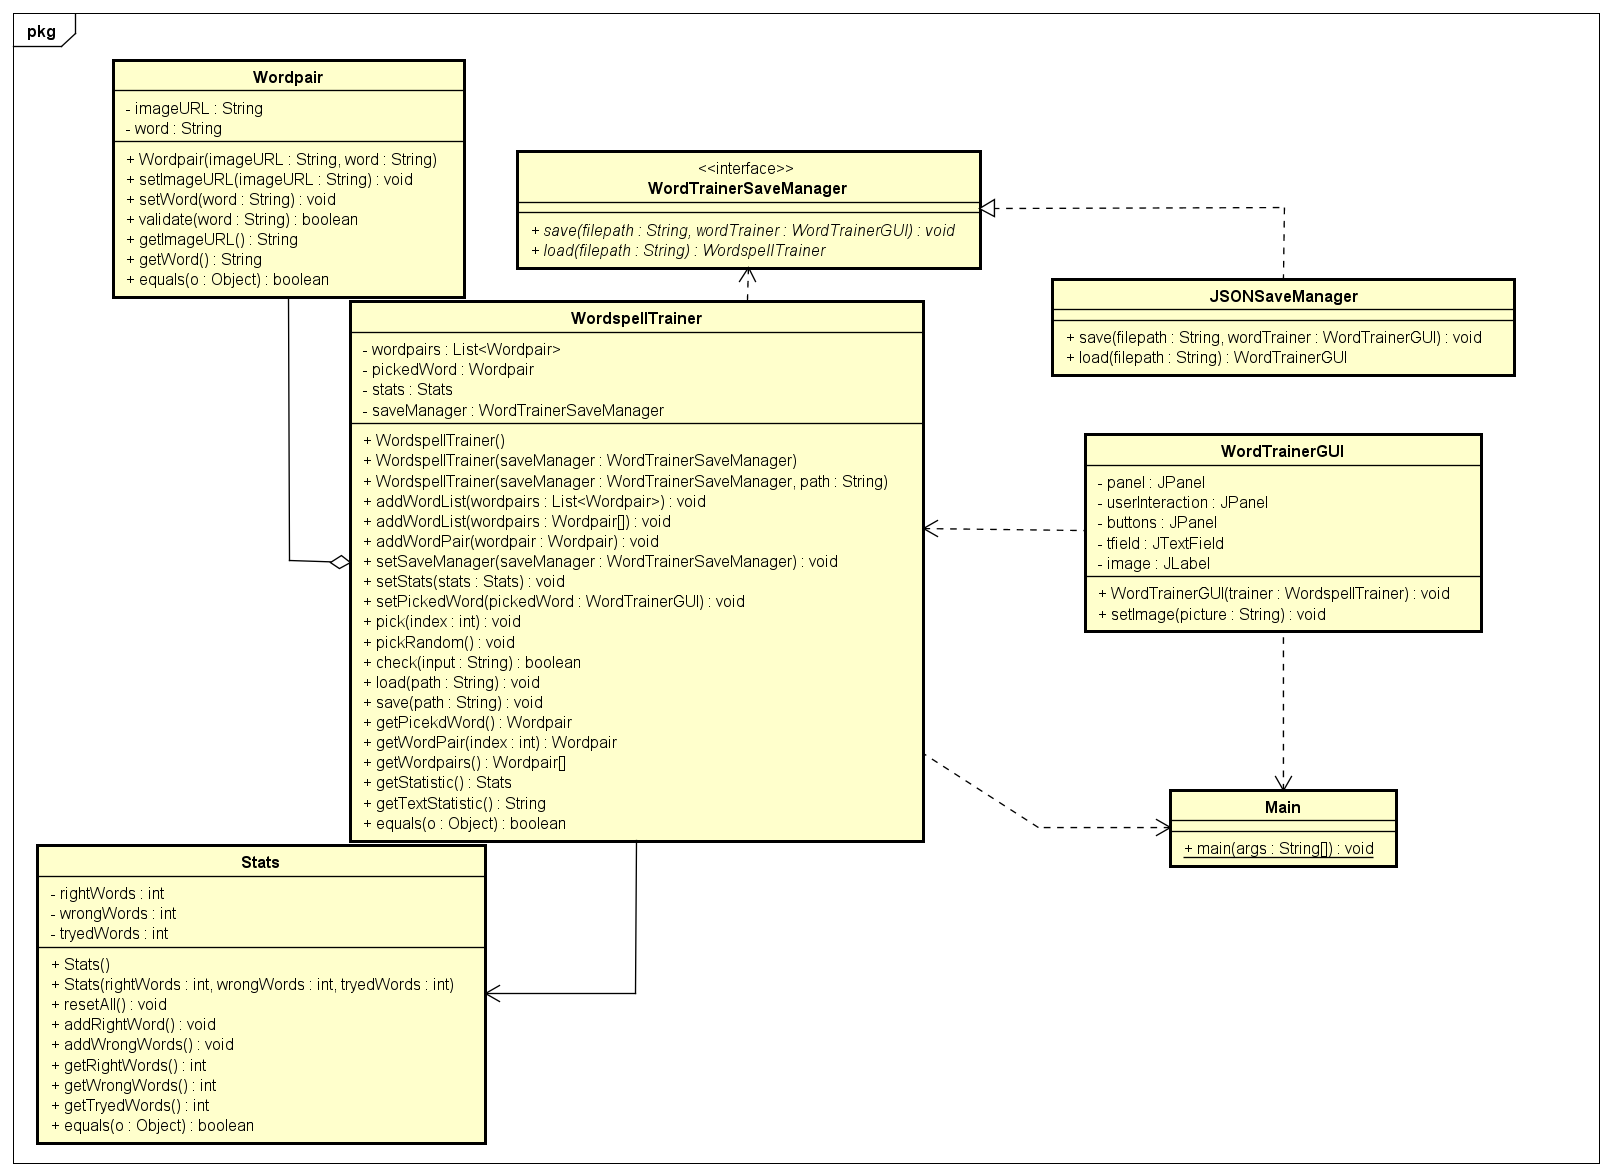
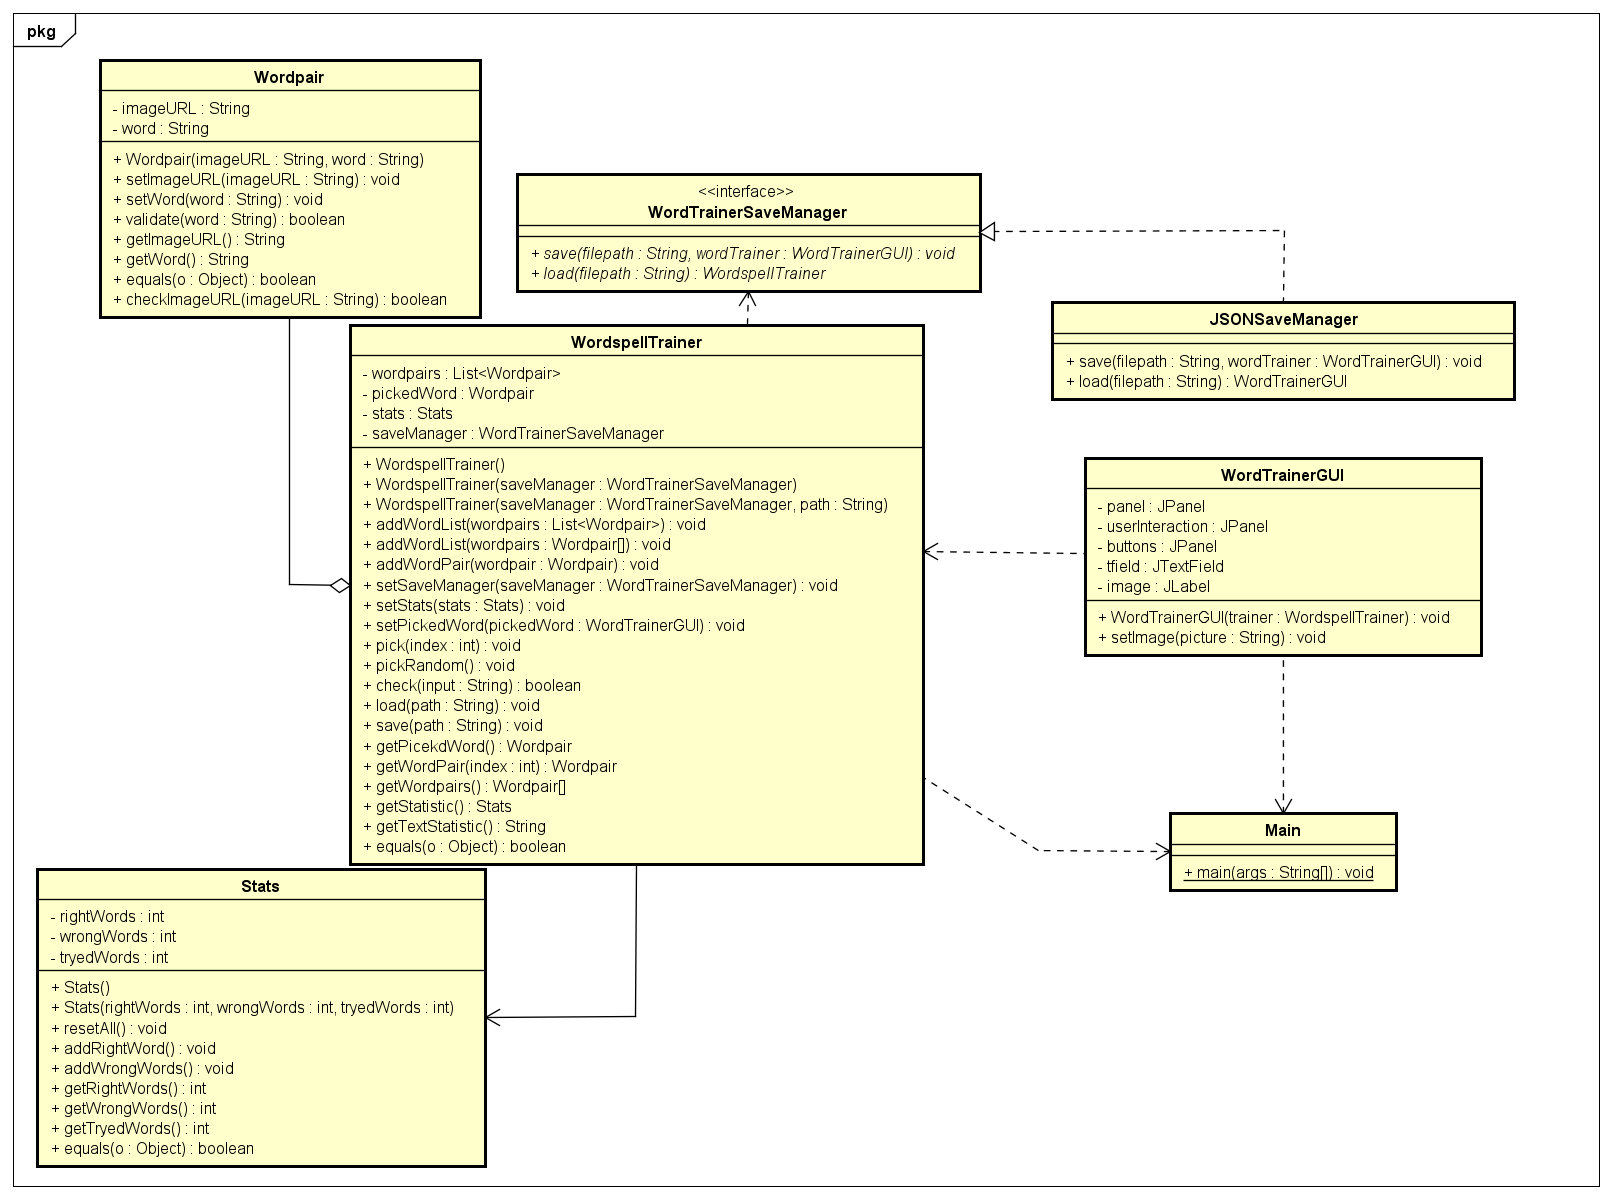
Issue von Flo implementiert und auf EKV erweitert

diff --git a/src/main/java/tgm/ac/at/parnold/WordPair.java b/src/main/java/tgm/ac/at/parnold/WordPair.java
@@ -1,5 +1,7 @@
 package tgm.ac.at.parnold;
 
+import javax.swing.*;
+import java.awt.*;
 import java.net.MalformedURLException;
 import java.net.URL;
 
@@ -14,7 +16,7 @@ public class WordPair {
     private String word;
 
     /**
-     * Mit dem Konsturkor kann ein neues Wortpaar erstellt werden
+     * Mit dem Konstruktor kann ein neues Wortpaar erstellt werden
      * @param imageURL hier wird die URL eines Bildes übergeben
      * @param word hier wird zur URL das passende Wort eingegeben
      */
@@ -25,15 +27,31 @@ public class WordPair {
 
     /**
      * Hier kann man die ImageURL setzen und diese wird auf eine echte URL geprüft
-     * @param imageURL hier wird die URL eines Biles übergeben
+     * @param imageURL hier wird die URL eines files übergeben
      */
     public void setImageURL(String imageURL) {
         try {
-            URL test = new URL(imageURL);
+            new URL(imageURL);
         } catch (MalformedURLException e) {
             throw new IllegalArgumentException("This is not a correct URL!");
         }
+        if (!checkImageURL(imageURL)) throw new IllegalArgumentException("This is not a image URL!");
         this.imageURL = imageURL;
+    }
+
+    public boolean checkImageURL(String imageURL) {
+        try{
+            ImageIcon imageIcon = new ImageIcon(new URL(imageURL));
+            while(imageIcon.getImageLoadStatus()==MediaTracker.LOADING){
+                Thread.sleep(500);
+            }
+            if(!(imageIcon.getImageLoadStatus()==MediaTracker.ABORTED || imageIcon.getImageLoadStatus()==MediaTracker.ERRORED)) return true;
+        } catch (MalformedURLException e){
+            throw new RuntimeException(e);
+        } catch (InterruptedException e) {
+            throw new RuntimeException(e);
+        }
+        return false;
     }
 
     /**
@@ -41,7 +59,7 @@ public class WordPair {
      * @param word hier wird das passende Wort übergeben
      */
     public void setWord(String word) {
-        if (word==null) throw new IllegalArgumentException("This is not a correct word!");;
+        if (word==null) throw new IllegalArgumentException("This is not a correct word!");
         if (word.length()==0) throw new IllegalArgumentException("This is not a correct word!");
         this.word = word;
     }
@@ -49,12 +67,11 @@ public class WordPair {
     /**
      * Die Methode validate überprüft, ob das übergebene Wort mit dem gespeicherten Wort übereinstimmt
      * @param word hier wird ein Wort übergeben, welches auf die richtigkeit überprüft wird
-     * @return die Methode gibt zurück ob das eingegeben Wort dem gespeicherten Word übereinstimmt und gibt je nachdem true oder false zurück
+     * @return die Methode gibt, zurück ob, das eingegeben Wort dem gespeicherten Word übereinstimmt und gibt je nachdem true oder false zurück
      */
     public boolean validate(String word){
         if(word == null) return false;
-        if(this.word.equalsIgnoreCase(word))return true;
-        else return false;
+        return this.word.equalsIgnoreCase(word);
     }
 
     /**
@@ -77,7 +94,6 @@ public class WordPair {
     public boolean equals(Object o){
         if (!(o instanceof WordPair pair)) return false;
         if(!this.getWord().equals(pair.getWord())) return false;
-        if(!this.imageURL.equals(pair.getImageURL())) return false;
-        return true;
+        return this.imageURL.equals(pair.getImageURL());
     }
 }

diff --git a/src/main/java/tgm/ac/at/parnold/WordspellTrainer.java b/src/main/java/tgm/ac/at/parnold/WordspellTrainer.java
@@ -36,7 +36,7 @@ public class WordspellTrainer {
     /**
      * Die Klasse erstellt einen neuen Worttrainer mit einem übergebenen saveManager, welcher für das speichern und laden des Trainer zuständig ist und einem Pfad von dem das File geladen werden soll
      * @param saveManager ein saveManger welches das speichern und laden des Worttrainers übernimmt
-     * @param path der Pfad von dem ein File geladen werden soll und hingespeichert werden soll
+     * @param path der Pfad, von dem ein File geladen werden soll und hingespeichert werden soll
      */
     public WordspellTrainer(WordTrainerSaveManager saveManager, String path) throws IOException {
         stats = new Stats();
@@ -97,7 +97,7 @@ public class WordspellTrainer {
 
     /**
      * Die Methode wählt ein spezielles Wort aus der Wortliste über den Index aus
-     * @param index der Index gibt an welches Wort aus der Wortliste gewählt wird
+     * @param index der Index gibt an, welches Wort aus der Wortliste gewählt wird
      */
     public void pick(int index){
         pickedWord = wordpairs.get(index);

diff --git a/src/main/java/tgm/ac/at/parnold/Main.java b/src/main/java/tgm/ac/at/parnold/Main.java
@@ -25,6 +25,7 @@ public class Main {
             words.add(new WordPair("https://www.kindersache.de/sites/default/files/styles/teaser/public/banana-42793_1280.jpg?itok=TbRV17I6", "Banane"));
             words.add(new WordPair("https://www.online-gartencenter.at/8738/pfirsich-kernechte-von-vorgebirge.jpg", "Pfirsich"));
             words.add(new WordPair("https://cdn.gurkerl.at/images/grocery/products/7957/7957-1603471900844.jpg", "Ananas"));
+            //words.add(new WordPair("https://www.google.com/", "Apfel"));
 
             trainer.addWordList(words);
             trainer.pickRandom();
